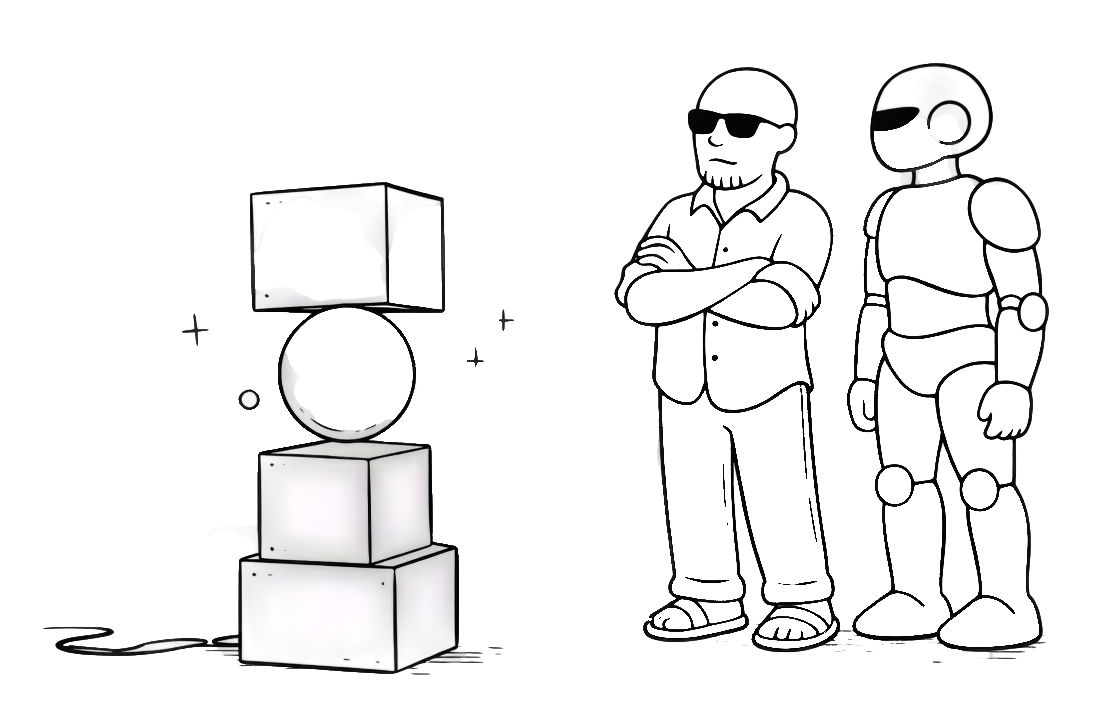
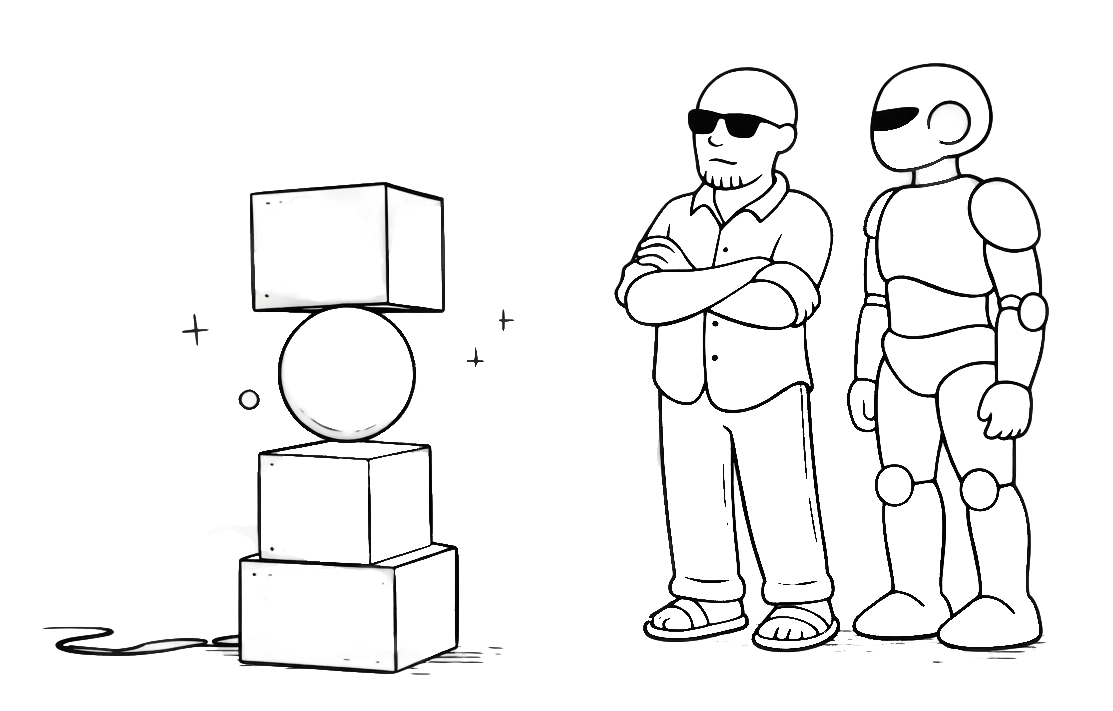
Update hero illustration and fix toggle + button spacing
- Replace hero image with final illustration asset
- Fix deep critique toggle: anchor circle at left-0 so translateX
  stays within the 70px container; reverse direction (on = left)
- Add 30px top padding above Run Critique button

Changed region(s): [[0.2138, 0.5879, 0.4277, 0.8973], [0.2444, 0.4951, 0.2749, 0.557]]

diff --git a/app/page.tsx b/app/page.tsx
@@ -639,8 +639,8 @@ export default function LandingPage() {
                   style={{ backgroundColor: deepCritique ? "#2d7d62" : "#E0DDD2" }}
                 />
                 <span
-                  className="absolute top-[2px] w-[26px] h-[26px] rounded-full bg-white shadow-sm transition-transform duration-200"
-                  style={{ transform: deepCritique ? "translateX(42px)" : "translateX(2px)" }}
+                  className="absolute top-[2px] left-0 w-[26px] h-[26px] rounded-full bg-white shadow-sm transition-transform duration-200"
+                  style={{ transform: deepCritique ? "translateX(2px)" : "translateX(42px)" }}
                 />
               </button>
               <p className="font-[family-name:var(--font-inter)] text-[12px] text-[#a09890] leading-normal">
@@ -655,7 +655,7 @@ export default function LandingPage() {
             )}
 
             {/* CTA */}
-            <div className="px-[90px]">
+            <div className="px-[90px] pt-[30px]">
               <button
                 onClick={handleSubmit}
                 disabled={!canSubmit}
